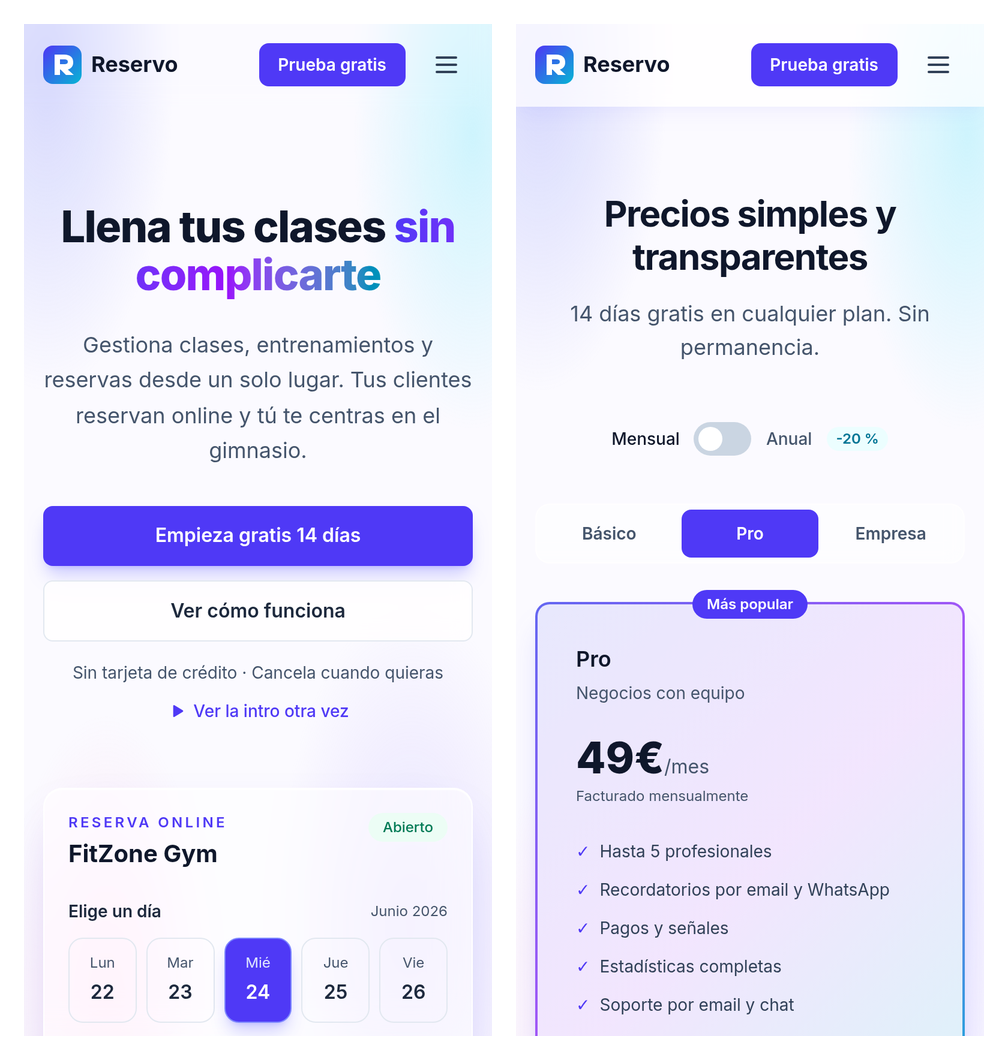
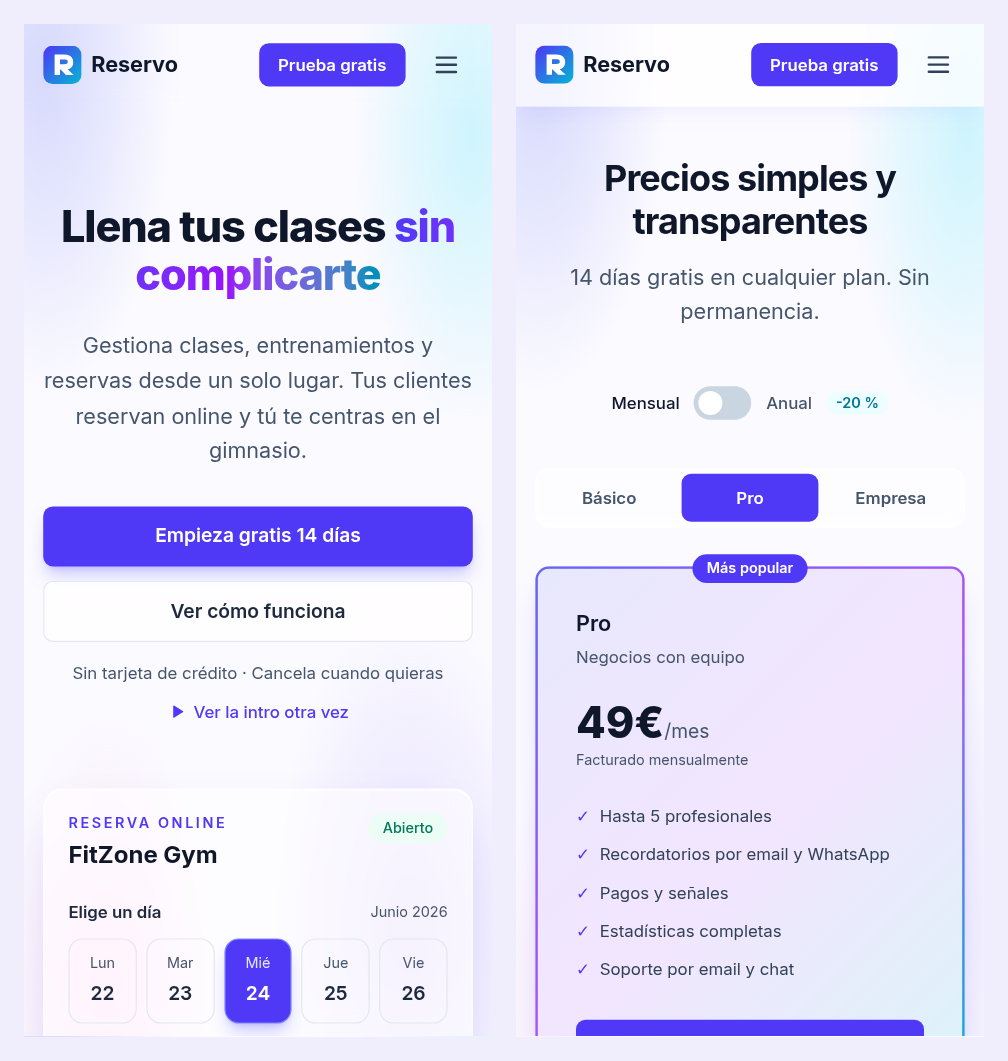
Docs: README con capturas al día (menú con Equipo, panel de la app y equipo), testimonios en carrusel en móvil y detalles del footer #32

diff --git a/README.md b/README.md
@@ -14,6 +14,10 @@ Web publicada: <https://2dam-202627-projecte.github.io/Grupo-3/>
 |---|---|
 | ![Landing en escritorio](Docs/capturas/escritorio.png) | ![Intro animada](Docs/capturas/intro.png) |
 
+| Panel de la app | Equipo |
+|---|---|
+| ![Vista previa del panel de la app](Docs/capturas/panel.png) | ![Sección Equipo](Docs/capturas/equipo.png) |
+
 | Precios (escritorio) | Móvil: inicio y precios |
 |---|---|
 | ![Precios en escritorio](Docs/capturas/precios.png) | ![Inicio y precios en el móvil](Docs/capturas/movil.png) |
@@ -72,7 +76,7 @@ Grupo-3/
 │   │   │   ├── HowItWorks.js     # Cómo funciona en 3 pasos
 │   │   │   ├── AppPreview.js     # Vista previa del panel de la app (HTML, sin imágenes)
 │   │   │   ├── Pricing.js        # Planes y precios (mensual / anual)
-│   │   │   ├── Testimonials.js   # Opiniones de clientes
+│   │   │   ├── Testimonials.js   # Opiniones de clientes (carrusel en móvil)
 │   │   │   ├── Faq.js            # Preguntas frecuentes (desplegables)
 │   │   │   ├── Team.js           # Equipo de Reservo (los tres integrantes)
 │   │   │   ├── Cta.js            # Formulario de prueba gratuita
@@ -139,12 +143,12 @@ Antes de abrir un *pull request* se trae `main` a la propia rama (`git merge mai
 4. **Features**: seis funcionalidades (reservas 24/7, recordatorios, pagos, equipo, estadísticas, app móvil).
 5. **How it works**: los tres pasos para empezar.
 6. **App preview**: así se ve Reservo por dentro. Un panel de ejemplo de FitZone Gym (cifras del día, agenda de clases con su ocupación, reservas de la semana y un recordatorio de WhatsApp), hecho con HTML y Tailwind en vez de con una imagen: se ve nítido en cualquier pantalla, se traduce y no pesa.
-7. **Testimonials**: tres opiniones de clientes de sectores distintos. Van antes de los precios para dar confianza antes de ver cuánto cuesta.
+7. **Testimonials**: tres opiniones de clientes de sectores distintos. Van antes de los precios para dar confianza antes de ver cuánto cuesta. En móvil se ven de una en una, en un carrusel con flechas y puntos.
 8. **Pricing**: tres planes (Básico 19 €, Pro 49 € destacado, Empresa a medida) con interruptor mensual / anual (20 % de descuento). En móvil, los planes se ven de uno en uno con pestañas.
 9. **FAQ**: preguntas frecuentes, que se abren y cierran sin JavaScript.
 10. **Team**: el equipo que hay detrás de Reservo (Vlad, Arnau y Jean), con avatar de iniciales, rol y una frase. Va antes del CTA para dar confianza antes de registrarse.
 11. **CTA**: formulario para dejar el email y empezar la prueba gratuita de 14 días, con validación y mensaje de confirmación.
-12. **Footer**: logo, suscripción a la newsletter (Mailchimp, con email de confirmación), enlaces legales, redes sociales y copyright con el año actual.
+12. **Footer**: logo, suscripción a la newsletter (Mailchimp, con email de confirmación y enlace a la política de privacidad), enlaces legales, contacto por email, redes sociales (se abren en una pestaña nueva) y copyright con el año actual.
 
 Además, en la primera visita sale un **aviso de cookies** abajo de la pantalla. La elección se guarda y el aviso ya no vuelve a salir. Los textos legales tienen su propia página, enlazada desde el footer: aviso legal (`aviso-legal.html`), política de privacidad (`politica-privacidad.html`) y política de cookies (`politica-cookies.html`). Reservo es ficticio, así que los datos de la empresa son inventados y las páginas lo indican.
 
